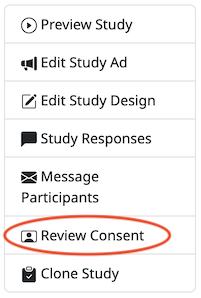
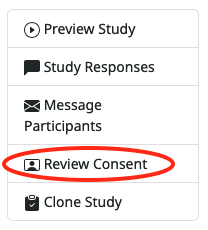
explain limited permissions/buttons for tutorial study, need to request access, update button screenshots

Changed region(s): [[0.0, 0.0304, 0.9851, 0.9739]]

diff --git a/docs/source/tutorial-manage-data.rst b/docs/source/tutorial-manage-data.rst
@@ -111,10 +111,17 @@ Click "Experimenter" to access the researcher-only pages, such as the researcher
 Get access to the "Apples to Oranges" study
 -------------------------------------------------
 
-When you go to the `Experimenter "Manage Studies" page on the staging site <https://babieshelpingscience.com/exp/studies/>`__, you are able to **see** the "Apples to Oranges" study because you automatically get read-only permissions for studies within the Demo lab. However, you can't automatically see any participant data! (This is on purpose - it's not possible to grant lab-wide permissions to actual data, you have to actively add people to individual studies.)
+When you go to the `Experimenter "Manage Studies" page on the staging site <https://babieshelpingscience.com/exp/studies/>`__, you are able to **see** the "Apples to oranges" study because you automatically get read-only permissions for studies within the Demo lab. However, you can't automatically see any participant data! (This is on purpose - it's not possible to grant lab-wide permissions to actual data, you have to actively add people to individual studies.) When you click on the "Apples to oranges" study from the "Manage Studies" page, you will see the study detail page, but with a limited set of buttons on the right:
 
-In the Slack #tutorial channel, post a request for access to the "Apples to oranges" study and we'll add you as a researcher. Once you've been added as a researcher on this study, you can code for informed consent, view individual responses, and download response data, demographic data, and videos.
+.. image:: _static/img/tutorial/tutorial_buttons_no_access.png
+    :alt: Study detail buttons with no researcher access.
 
+**In the Slack #tutorial channel, post a request for access to the "Apples to oranges" study and we'll add you as a researcher**. Once you've been added as a researcher on this study, you will see see the "Message Participants" and "Review Consent" buttons in the menu:
+
+.. image:: _static/img/tutorial/tutorial_buttons_after_access.png
+    :alt: Study detail buttons with researcher access.
+
+Now you can code for informed consent, view individual responses, and download response data, demographic data, and videos. (You still will not see the "Edit Study Ad" and "Edit Study Design" buttons, because those are for study admins only).
 
 Checking for informed consent and giving feedback
 -------------------------------------------------
